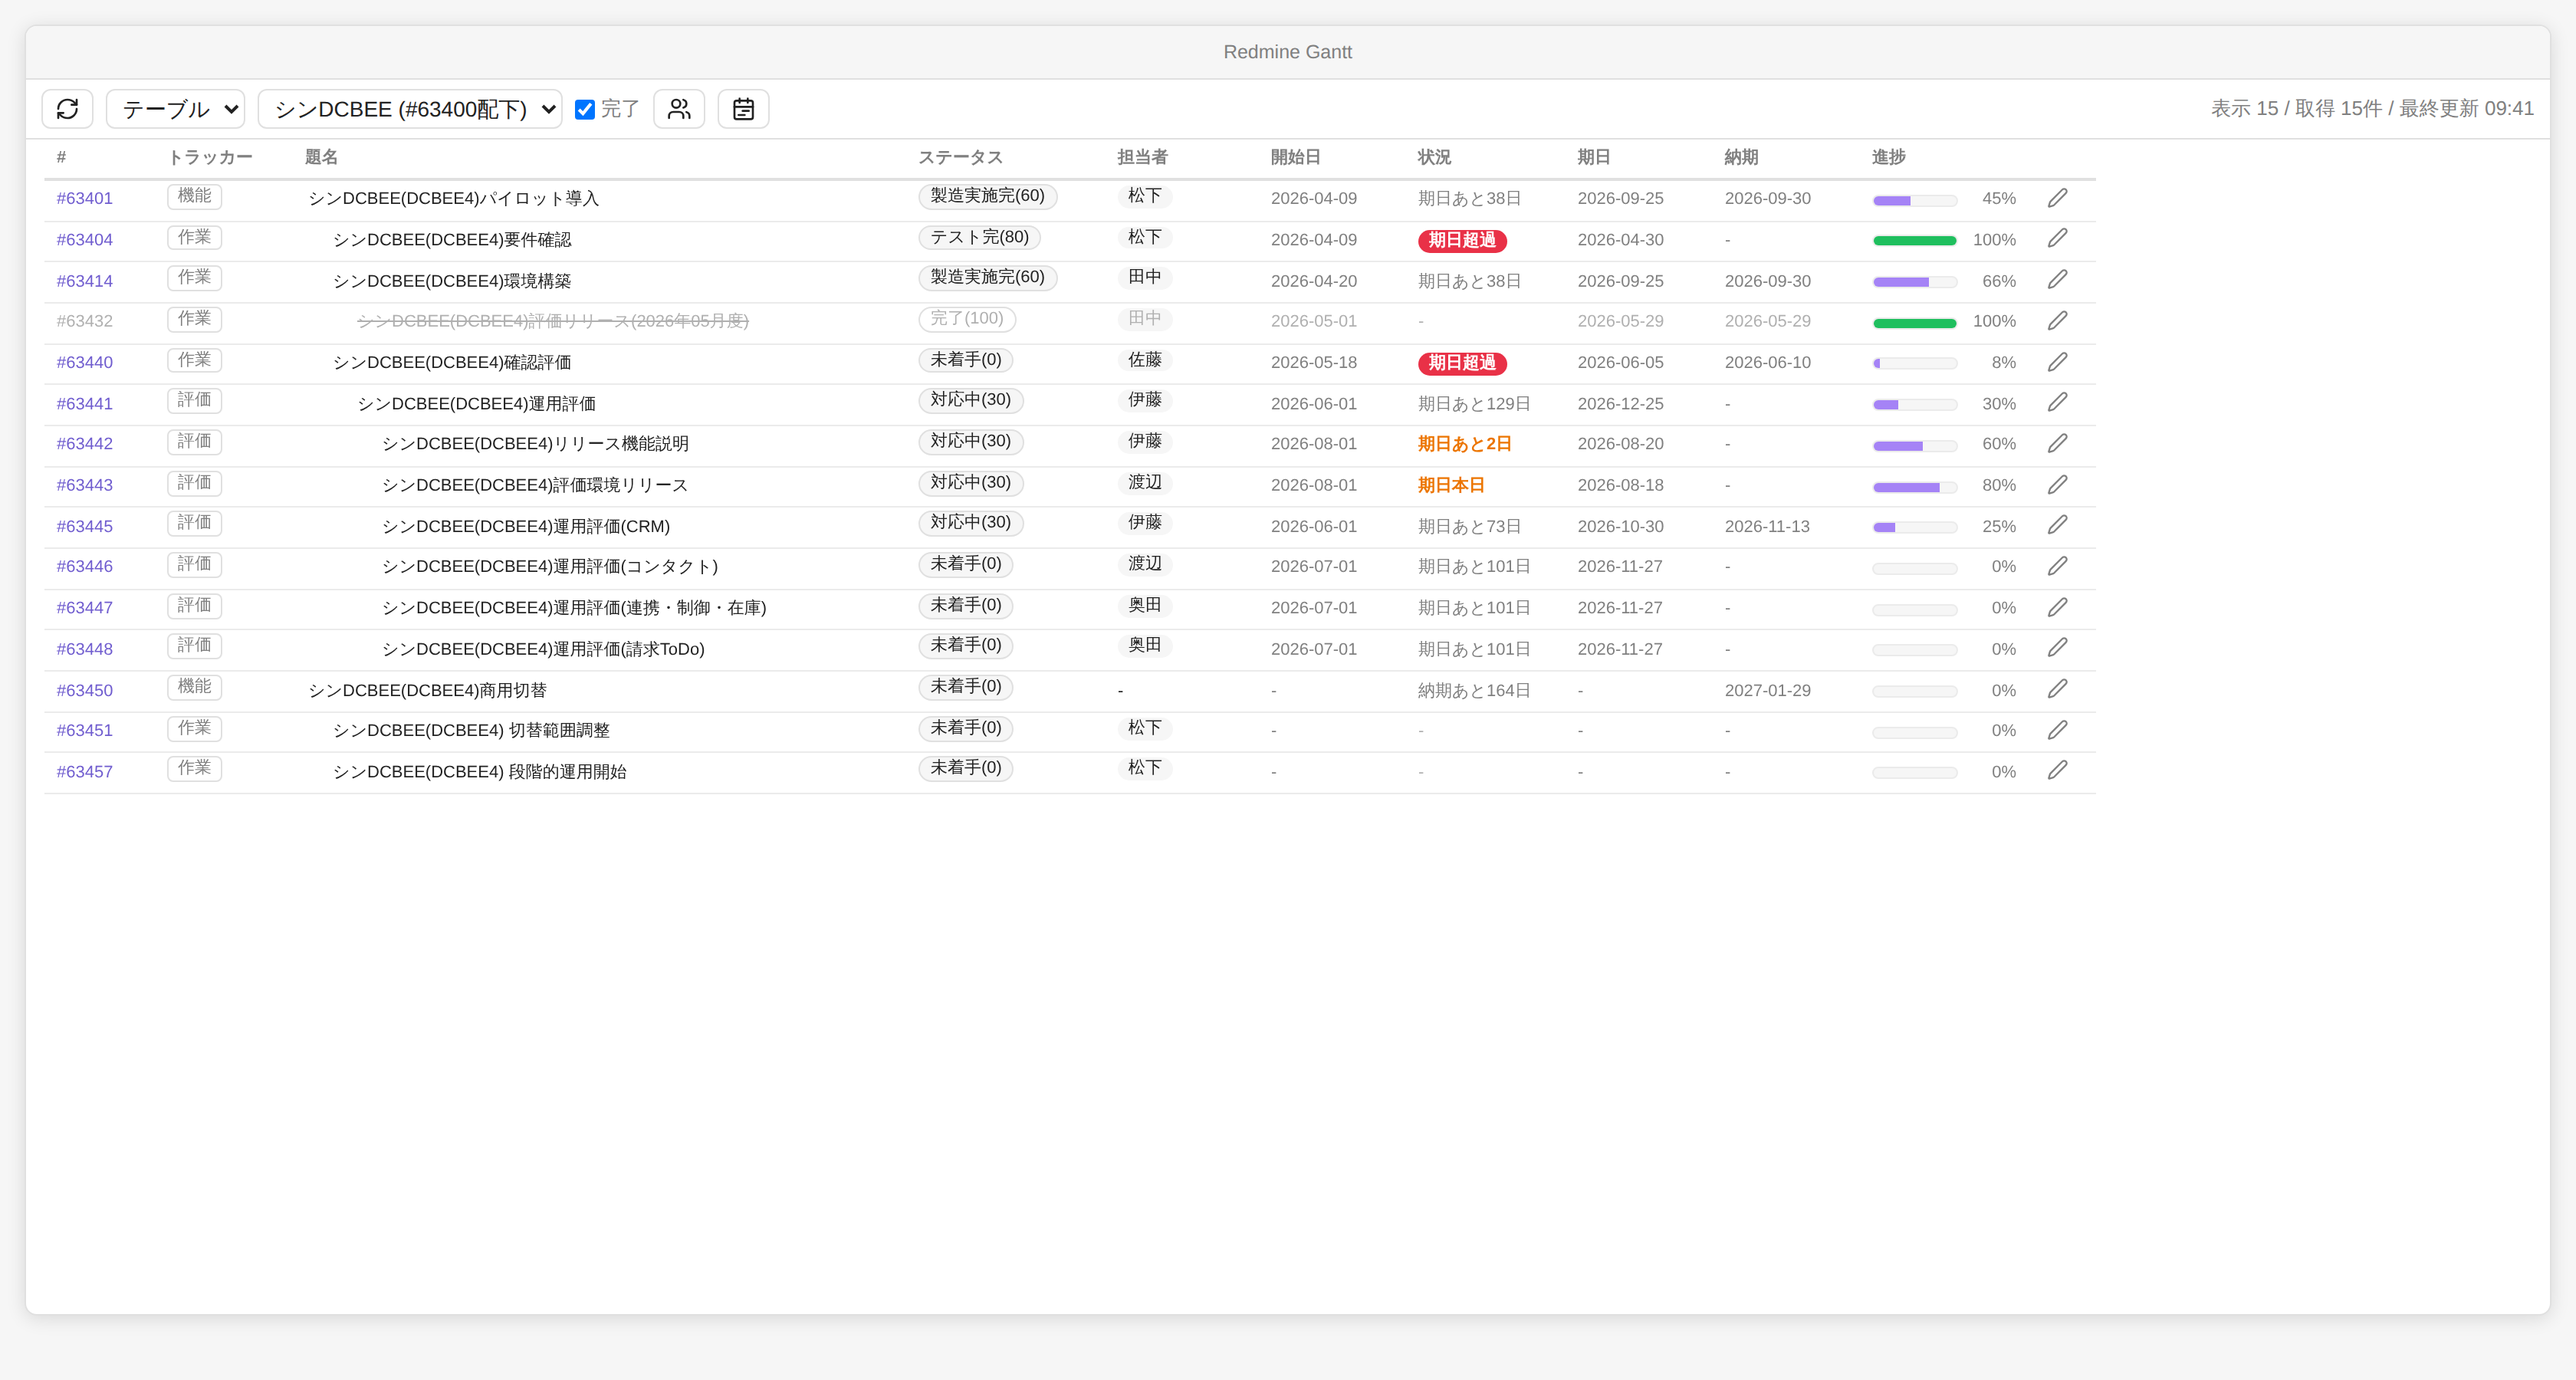
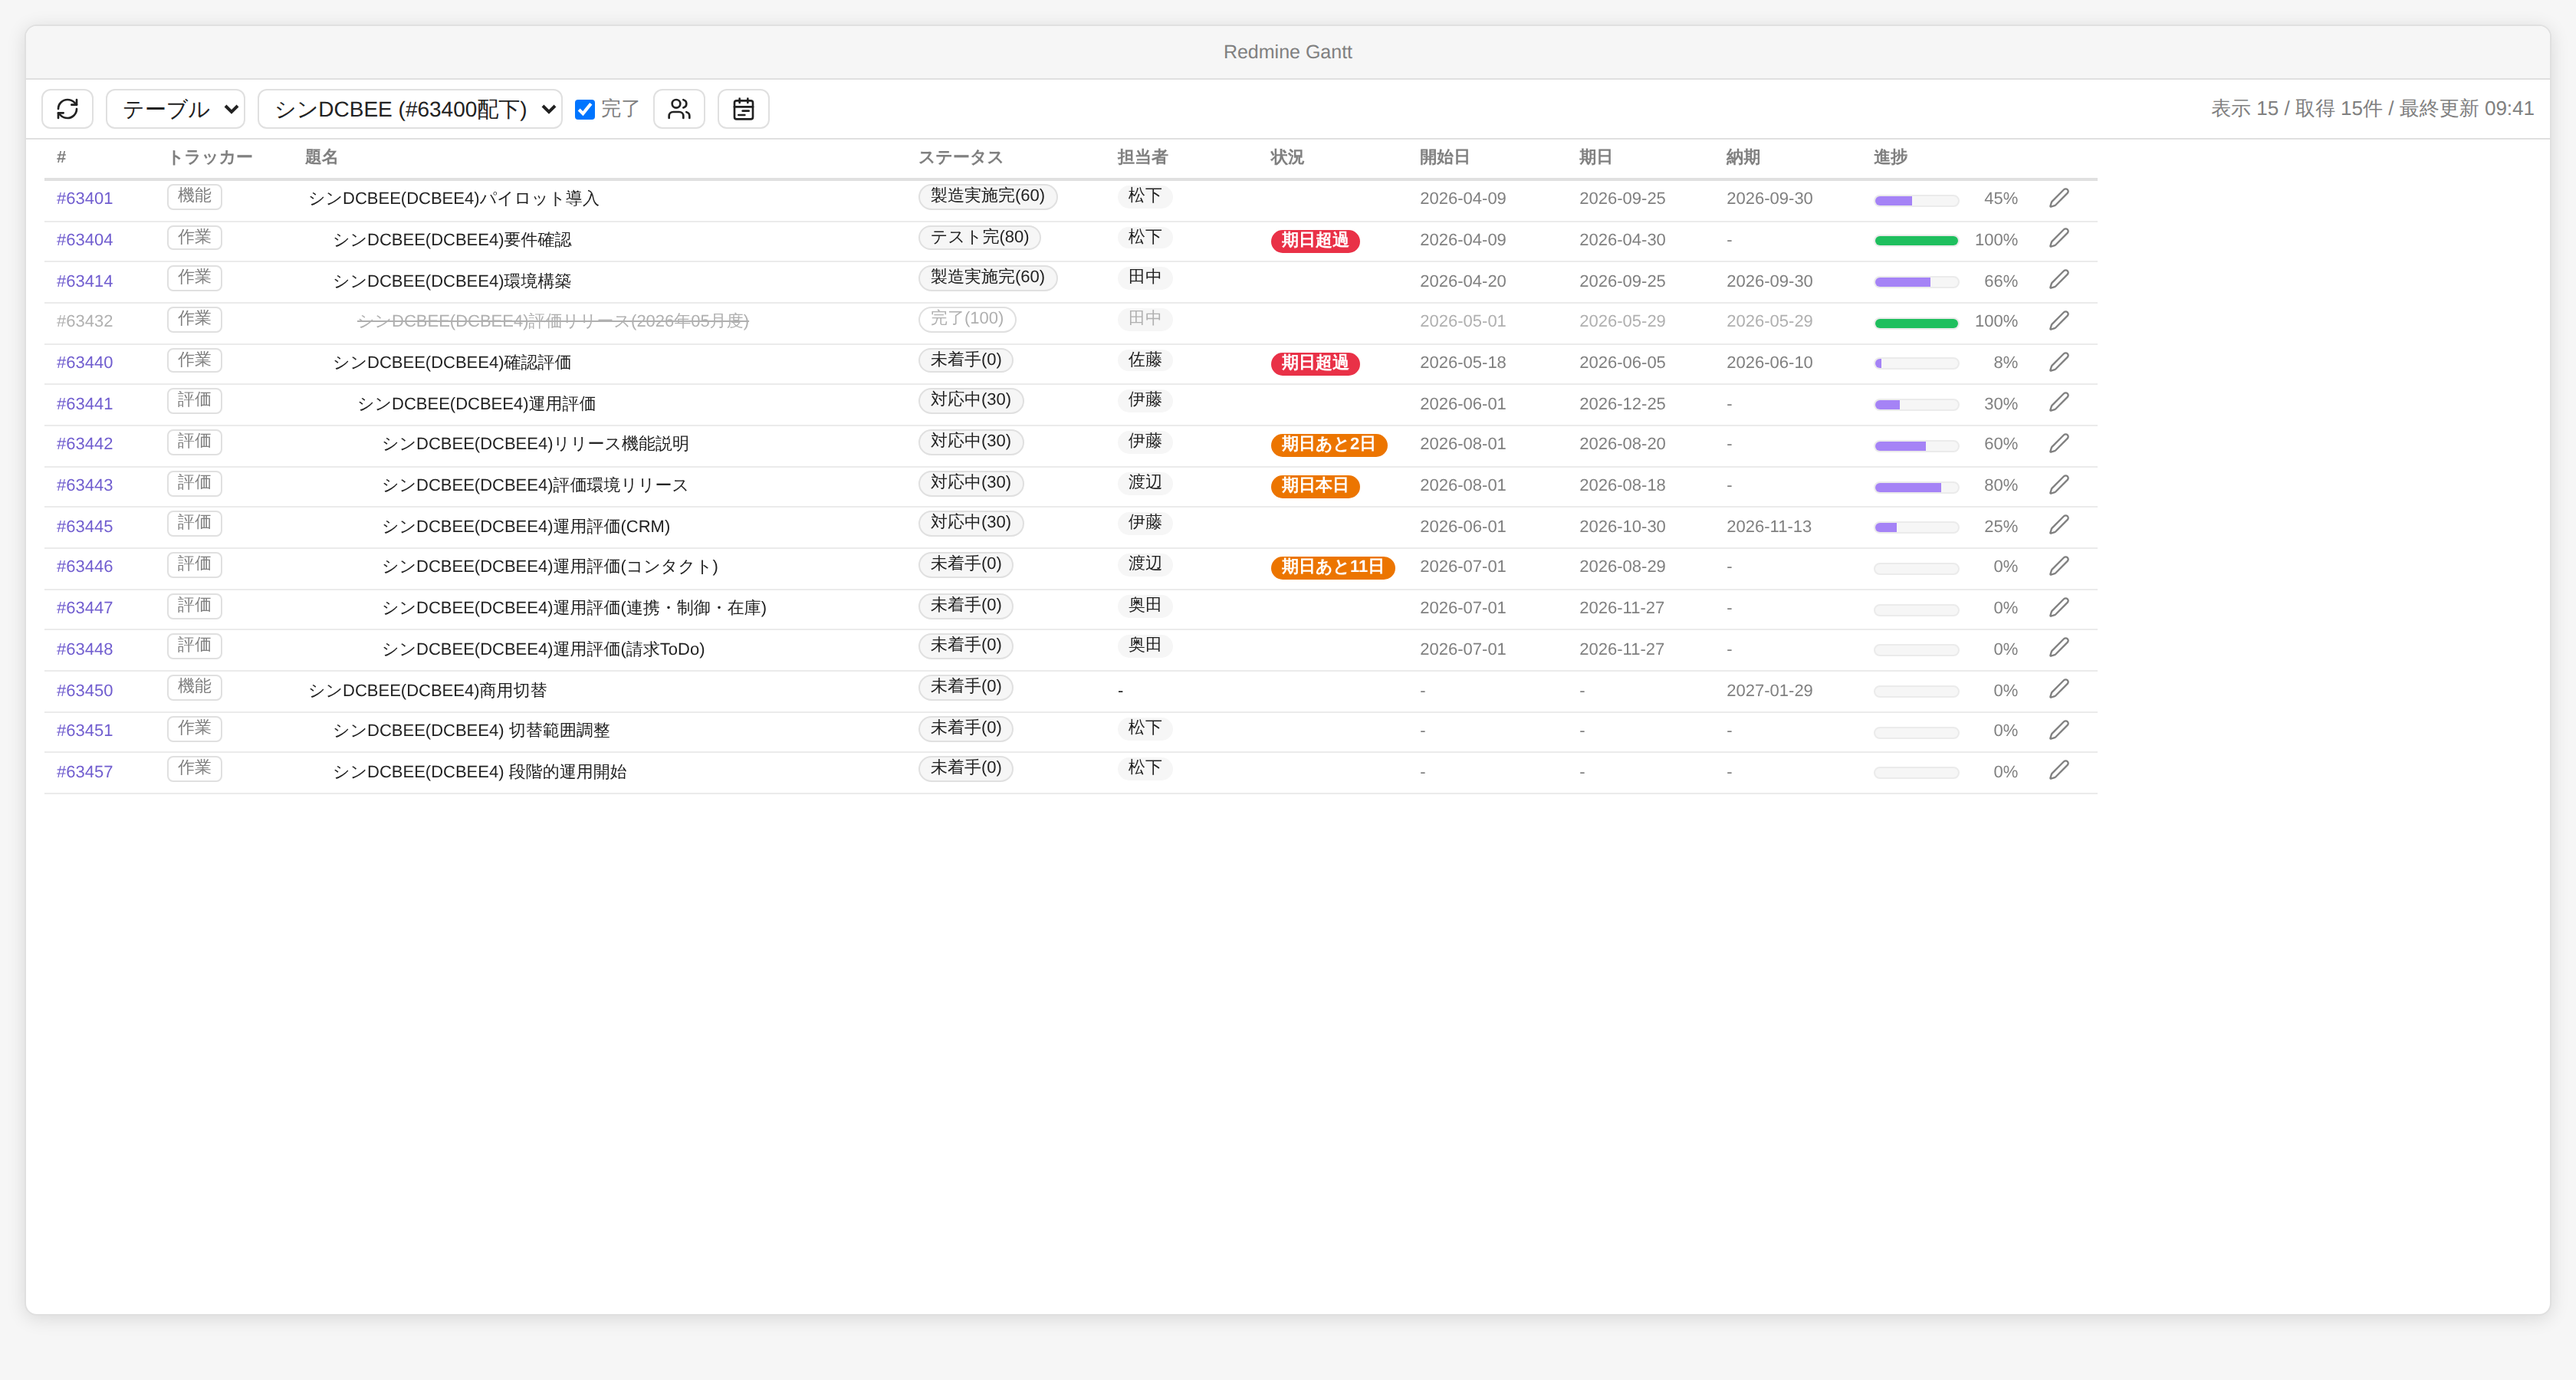
状況列を開始日の左へ移動し、2週間以内のみオレンジバッジ表示に変更
- 期日/納期まで14日以内: オレンジのバッジで「期日あとXX日」(当日は「期日本日」)
- 超過: 赤バッジ「期日超過」(従来どおり)
- 2週間より先・完了チケット・日付なし: 何も表示しない
- 列順を 担当者 / 状況 / 開始日 に変更
- 画面イメージ・README・ARCHITECTUREを更新、main.jsを再ビルド

Claude-Session: https://claude.ai/code/session_0118WAWEAhUn2qJokaWLCuZh

diff --git a/src/gantt/table.ts b/src/gantt/table.ts
@@ -12,8 +12,8 @@ const COLUMNS: { label: string; width: number; cls?: string }[] = [
 	{ label: "題名", width: 360 },
 	{ label: "ステータス", width: 120 },
 	{ label: "担当者", width: 110 },
-	{ label: "開始日", width: 96, cls: "rg-td-date" },
 	{ label: "状況", width: 104 },
+	{ label: "開始日", width: 96, cls: "rg-td-date" },
 	{ label: "期日", width: 96, cls: "rg-td-date" },
 	{ label: "納期", width: 96, cls: "rg-td-date" },
 	{ label: "進捗", width: 96 },
@@ -129,13 +129,7 @@ function renderRow(tbody: HTMLElement, task: GanttTask, opts: TableOptions): voi
 		assigneeCell.addClass("rg-td-empty");
 	}
 
-	// 開始日 / 期日(フォールバック値は表示せずRedmineの生の値のみ)
-	row.createEl("td", {
-		cls: "rg-td-date",
-		text: task.start && !task.startIsFallback ? formatDate(task.start) : "-",
-	});
-
-	// 状況(現在日と期日/納期の比較)
+	// 状況(現在日と期日/納期の比較。2週間より先は表示しない)
 	const situationCell = row.createEl("td");
 	const situation = computeSituation(task);
 	if (situation) {
@@ -144,10 +138,13 @@ function renderRow(tbody: HTMLElement, task: GanttTask, opts: TableOptions): voi
 			text: situation.text,
 		});
 		if (situation.title) el.setAttr("title", situation.title);
-	} else {
-		situationCell.setText("-");
-		situationCell.addClass("rg-td-empty");
 	}
+
+	// 開始日 / 期日(フォールバック値は表示せずRedmineの生の値のみ)
+	row.createEl("td", {
+		cls: "rg-td-date",
+		text: task.start && !task.startIsFallback ? formatDate(task.start) : "-",
+	});
 
 	row.createEl("td", {
 		cls: "rg-td-date",
@@ -183,15 +180,18 @@ function parseDeliveryDate(s: string): Date | null {
 	return new Date(Number(m[1]), Number(m[2]) - 1, Number(m[3]));
 }
 
+// この日数以内のとき「あとXX日」バッジを表示する(それより先は表示しない)
+const DUE_SOON_DAYS = 14;
+
 interface Situation {
 	text: string;
-	kind: "over" | "soon" | "normal";
+	kind: "over" | "soon";
 	title?: string;
 }
 
 /**
  * 現在日と期日(なければ納期)を比較した状況表示。
- * 完了チケット・比較対象の日付がないチケットは null
+ * 完了チケット・比較対象の日付がないチケット・2週間より先のチケットは null(表示なし)
  */
 function computeSituation(task: GanttTask): Situation | null {
 	if (task.isClosed) return null;
@@ -207,8 +207,9 @@ function computeSituation(task: GanttTask): Situation | null {
 	if (diff < 0) {
 		return { text: `${label}超過`, kind: "over", title: `${-diff}日超過 (${formatDate(target)})` };
 	}
+	if (diff > DUE_SOON_DAYS) return null;
 	if (diff === 0) {
 		return { text: `${label}本日`, kind: "soon" };
 	}
-	return { text: `${label}あと${diff}日`, kind: diff <= 3 ? "soon" : "normal" };
+	return { text: `${label}あと${diff}日`, kind: "soon" };
 }

diff --git a/main.js b/main.js
@@ -1096,8 +1096,8 @@ var COLUMNS = [
   { label: "\u984C\u540D", width: 360 },
   { label: "\u30B9\u30C6\u30FC\u30BF\u30B9", width: 120 },
   { label: "\u62C5\u5F53\u8005", width: 110 },
-  { label: "\u958B\u59CB\u65E5", width: 96, cls: "rg-td-date" },
   { label: "\u72B6\u6CC1", width: 104 },
+  { label: "\u958B\u59CB\u65E5", width: 96, cls: "rg-td-date" },
   { label: "\u671F\u65E5", width: 96, cls: "rg-td-date" },
   { label: "\u7D0D\u671F", width: 96, cls: "rg-td-date" },
   { label: "\u9032\u6357", width: 96 },
@@ -1186,10 +1186,6 @@ function renderRow(tbody, task, opts) {
     assigneeCell.setText("-");
     assigneeCell.addClass("rg-td-empty");
   }
-  row.createEl("td", {
-    cls: "rg-td-date",
-    text: task.start && !task.startIsFallback ? formatDate(task.start) : "-"
-  });
   const situationCell = row.createEl("td");
   const situation = computeSituation(task);
   if (situation) {
@@ -1199,10 +1195,11 @@ function renderRow(tbody, task, opts) {
     });
     if (situation.title)
       el.setAttr("title", situation.title);
-  } else {
-    situationCell.setText("-");
-    situationCell.addClass("rg-td-empty");
   }
+  row.createEl("td", {
+    cls: "rg-td-date",
+    text: task.start && !task.startIsFallback ? formatDate(task.start) : "-"
+  });
   row.createEl("td", {
     cls: "rg-td-date",
     text: task.due && !task.dueIsFallback ? formatDate(task.due) : "-"
@@ -1230,6 +1227,7 @@ function parseDeliveryDate(s) {
     return null;
   return new Date(Number(m[1]), Number(m[2]) - 1, Number(m[3]));
 }
+var DUE_SOON_DAYS = 14;
 function computeSituation(task) {
   if (task.isClosed)
     return null;
@@ -1245,10 +1243,12 @@ function computeSituation(task) {
   if (diff < 0) {
     return { text: `${label}\u8D85\u904E`, kind: "over", title: `${-diff}\u65E5\u8D85\u904E (${formatDate(target)})` };
   }
+  if (diff > DUE_SOON_DAYS)
+    return null;
   if (diff === 0) {
     return { text: `${label}\u672C\u65E5`, kind: "soon" };
   }
-  return { text: `${label}\u3042\u3068${diff}\u65E5`, kind: diff <= 3 ? "soon" : "normal" };
+  return { text: `${label}\u3042\u3068${diff}\u65E5`, kind: "soon" };
 }
 
 // src/gantt/GanttView.ts

diff --git a/styles.css b/styles.css
@@ -590,12 +590,12 @@ body.rg-resizing {
 }
 
 .rg-due-soon {
-	color: var(--color-orange);
+	display: inline-block;
+	padding: 0 7px;
+	border-radius: 9px;
+	background: var(--color-orange);
+	color: #ffffff;
 	font-weight: 600;
-}
-
-.rg-due-normal {
-	color: var(--text-muted);
 }
 
 /* 進捗バー */

diff --git a/README.md b/README.md
@@ -24,9 +24,9 @@
   - Redmineの保存クエリ(`query_id`)
   - 負荷対策のため、プロジェクト全体の一括取得は行いません(フィルタの設定が必須)
 - **表示モードの切り替え**: ガントチャート / チケット一覧テーブルをツールバーで切り替え(選択は記憶)
-  - テーブルは # / トラッカー / 題名 / ステータス / 担当者 / 開始日 / **状況** / 期日 / **納期** / 進捗 / 編集 の列構成。列幅はヘッダー境界のドラッグで調整可能
+  - テーブルは # / トラッカー / 題名 / ステータス / 担当者 / **状況** / 開始日 / 期日 / **納期** / 進捗 / 編集 の列構成。列幅はヘッダー境界のドラッグで調整可能
   - 納期列は Redmine のカスタムフィールド「納期」の値を表示
-  - **状況列**: 現在日と期日(なければ納期)を比較して「期日あとXX日」を表示。超過は赤バッジで「期日超過」、当日・3日以内はオレンジで警告。完了チケットは対象外
+  - **状況列**: 現在日と期日(なければ納期)を比較し、**2週間以内**ならオレンジのバッジで「期日あとXX日」(当日は「期日本日」)、超過は赤バッジで「期日超過」を表示。2週間より先・完了チケットは何も表示しない
   - コンパクトな行高で一覧性を重視
 - **完了チケットの表示切替**: ツールバーの「完了」チェックで切替(既定: 非表示)。再取得なしで即時反映
 - **担当者絞り込みモード**: ツールバーの人物アイコンから担当者を複数選択すると、その担当者のチケットだけを表示し、担当者ごとに色分け(ガントのバー・テーブルのチップ)

diff --git a/docs/ARCHITECTURE.md b/docs/ARCHITECTURE.md
@@ -124,7 +124,7 @@ obsidian-redmine-tool/
 | **2.8(実装済み)** | ガントの表示期間指定: 開始月+表示月数(既定は当月から2ヶ月)。範囲外バーのクリップ描画。保存クエリ404時のエラーメッセージ改善(クエリのアクセス権・プロジェクトスコープの案内) |
 | **3** | 自動更新、キャッシュ(オフライン表示)、担当者/ステータスのフィルタ UI、行仮想化 |
 | **4a(実装済み)** | **チケット更新(モーダル編集)**: テーブルの編集ボタンからステータス/担当者/開始日/期日/納期/進捗率を `PUT /issues/:id.json` で更新。モーダルを開くたびに最新を取得し、変更フィールドのみ送信。422エラー(ワークフロー遷移不可等)は内容を表示 |
-| **2.9(実装済み)** | テーブルのコンパクト化(フォント縮小・行高圧縮)と「状況」列: 現在日と期日/納期の比較で「あとXX日」「期日超過(赤バッジ)」を表示 |
+| **2.9(実装済み)** | テーブルのコンパクト化(フォント縮小・行高圧縮)と「状況」列(開始日の左): 期日/納期が2週間以内ならオレンジバッジ「あとXX日」、超過は赤バッジ「期日超過」。2週間より先は非表示 |
 | **4b** | ガント上での直接編集: バーのドラッグ/リサイズによる期日変更。楽観ロック(`updated_on` 比較)と更新確認ダイアログ |
 
 ## 8. 技術スタック
